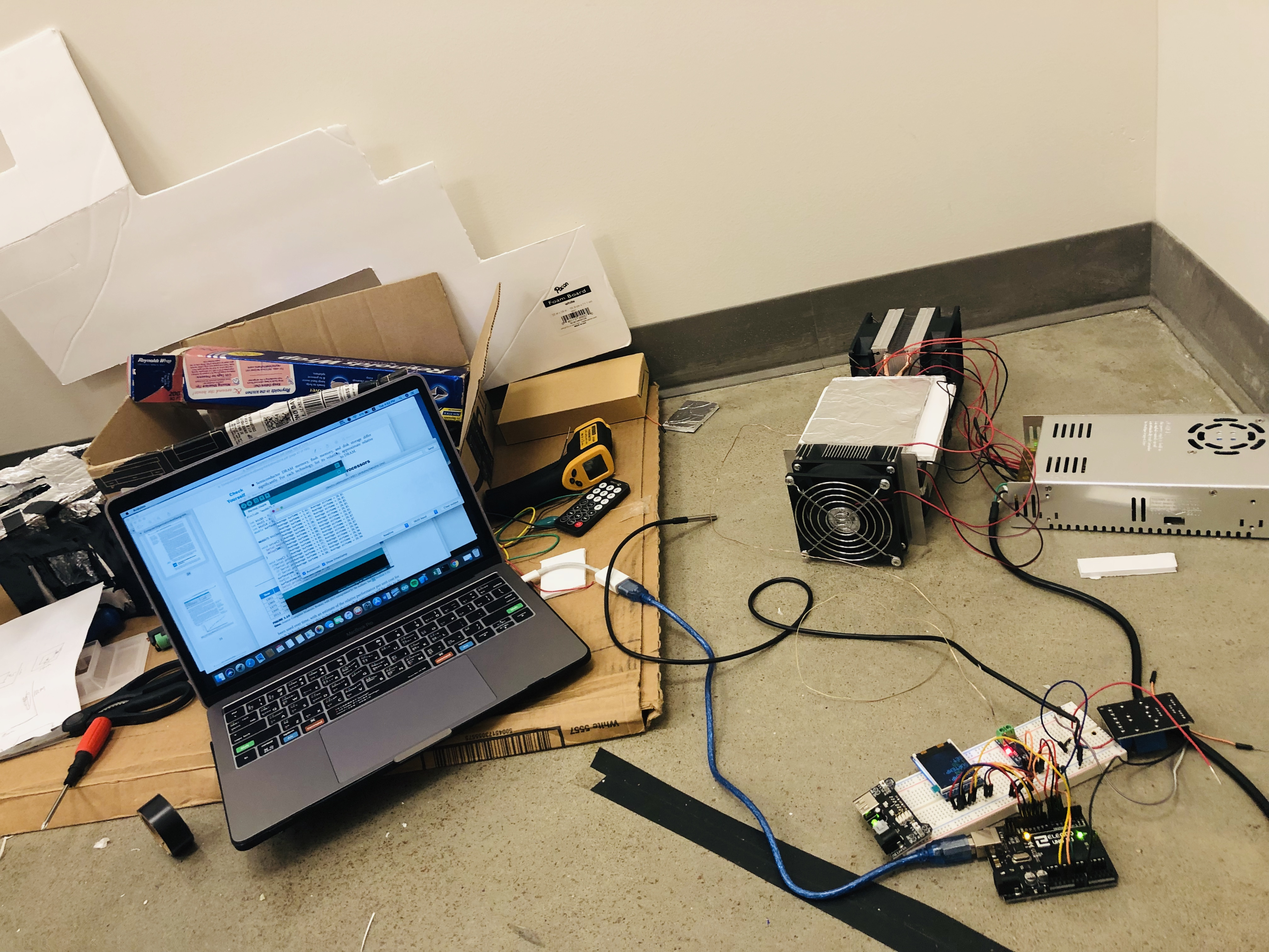
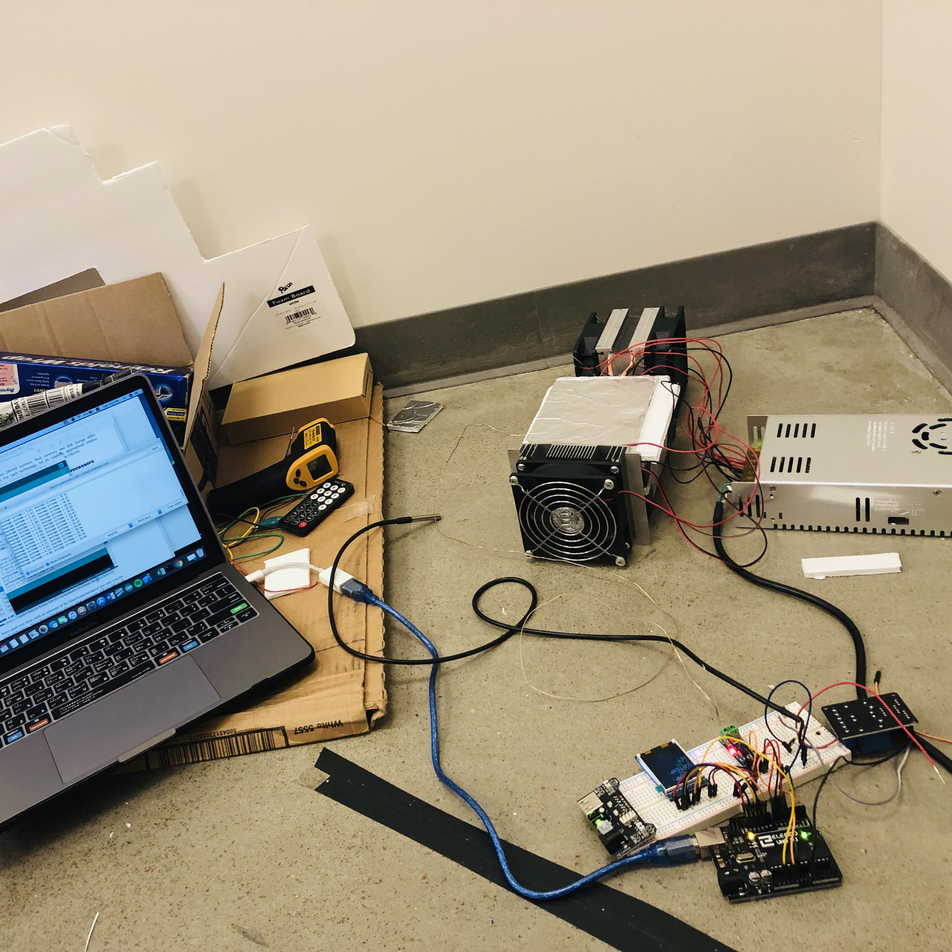
test

diff --git a/index.html b/index.html
@@ -249,7 +249,7 @@
             <div class="portfolio-items">
               <div class="col-sm-6 col-md-3 col-lg-3 web">
                 <div class="portfolio-item">
-                  <div class="hover-bg"> <a href="img/portfolio/Battery-large.jpg" title="In this project, I design and build PID control thermostat with Peltier module by Arduino microcontroller.
+                  <div class="hover-bg"> <a href="img/portfolio/Battery-large2.jpg" title="In this project, I design and build PID control thermostat with Peltier module by Arduino microcontroller.
                     I establish temperature acquisition unit with K type thermocouple and Analog-to-digital unit with MAX31885. A battery data acquisition and display system with ICharger 1010b+, LogView and Matlab is
                     developed to improve the testing efficiency. In the end, I paticipate in writing “A Study of the Factors that Affect Lithium Ion Battery Degradation” conference paper whihc is selected by 
                     International Council on Large Electric Systems (CIGRE)" rel="prettyPhoto">
